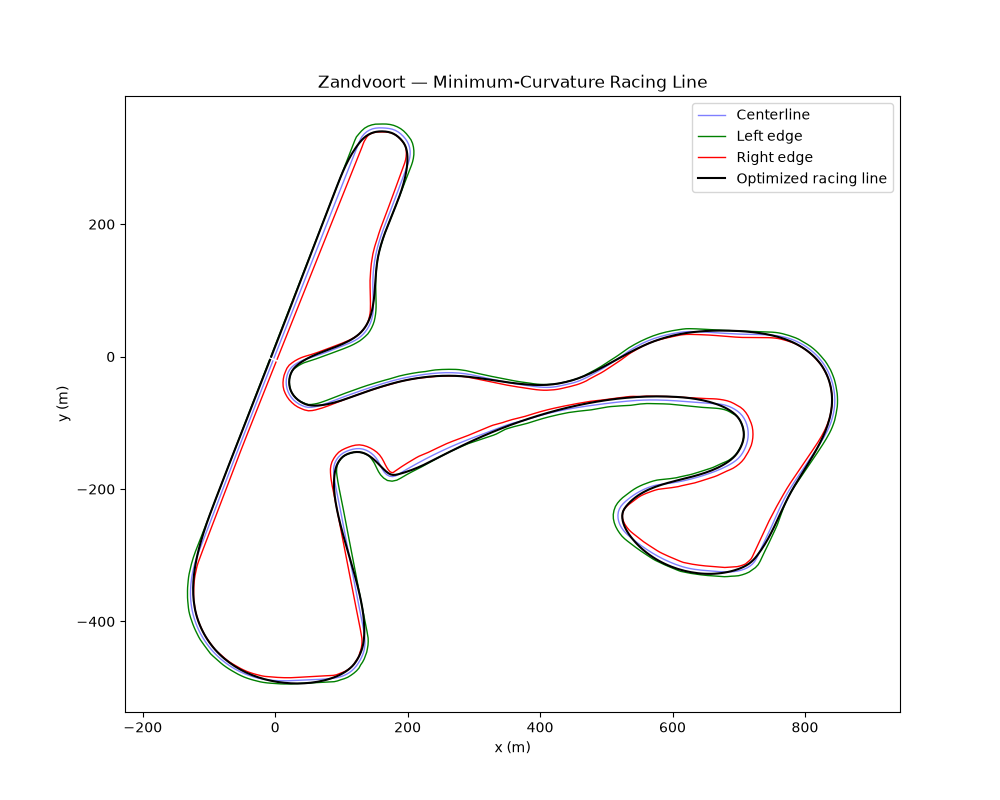
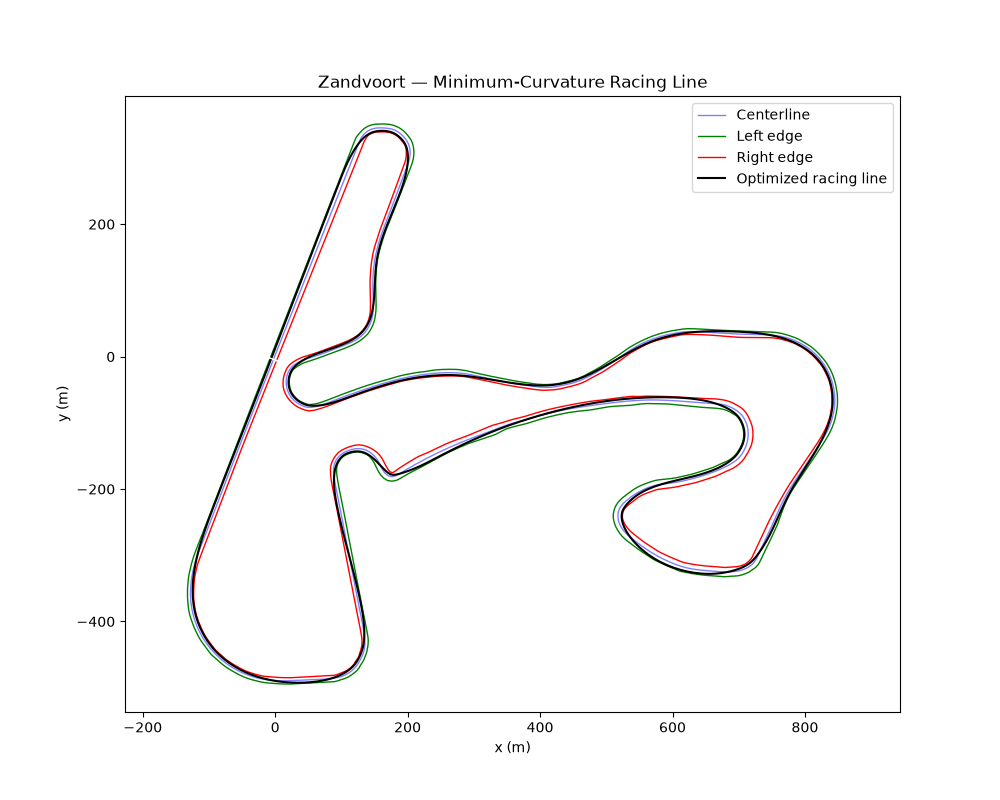
Add vehicle width constraint, speed profile, lap time metrics, and 5-track benchmark

diff --git a/load_track.py b/load_track.py
@@ -65,12 +65,23 @@ def build_second_diff_matrix(n_points):
     L[-1, 0] = 1
     return L.tocsr()
 
-
-def optimize_racing_line(x, y, w_left, w_right, n_x, n_y, L):
-    """Solve the minimum-curvature offset (alpha) optimization problem."""
+def optimize_racing_line(x, y, w_left, w_right, n_x, n_y, L, w_veh=2.0):
     n_points = len(x)
     c_x = L @ x
     c_y = L @ y
+
+    # Shrink usable width by half the vehicle width on each side
+    w_left_adj = w_left - w_veh / 2
+    w_right_adj = w_right - w_veh / 2
+    if np.any(w_left_adj < 0) or np.any(w_right_adj < 0):
+        n_bad_left = np.sum(w_left_adj < 0)
+        n_bad_right = np.sum(w_right_adj < 0)
+        raise ValueError(
+            f"Vehicle width ({w_veh}m) doesn't fit at some track points! "
+            f"{n_bad_left} points too narrow on the left, "
+            f"{n_bad_right} points too narrow on the right. "
+            f"Reduce w_veh or check the track data."
+        )
 
     def cost_and_grad(alpha):
         Dx = c_x + L @ (alpha * n_x)
@@ -79,7 +90,7 @@ def optimize_racing_line(x, y, w_left, w_right, n_x, n_y, L):
         grad = 2 * n_x * (L @ Dx) + 2 * n_y * (L @ Dy)
         return cost, grad
 
-    bounds = list(zip(-w_right, w_left))
+    bounds = list(zip(-w_right_adj, w_left_adj))
     alpha_init = np.zeros(n_points)
 
     result = minimize(
@@ -87,7 +98,48 @@ def optimize_racing_line(x, y, w_left, w_right, n_x, n_y, L):
         method="L-BFGS-B", jac=True, bounds=bounds
     )
     return result
+def compute_speed_profile(x, y, a_y_max=15.0):
+    """
+    Compute the maximum cornering speed at each point along a path,
+    based purely on lateral grip limits (v_max = sqrt(a_y_max * R)).
+    Does NOT account for engine/braking limits - straights will show
+    unrealistically high values, since this only captures the
+    cornering constraint.
+    """
+    curvature = compute_curvature(x, y)
 
+    # Avoid division by zero on perfectly straight sections
+    # (curvature exactly 0 would make R infinite).
+    # np.abs() since curvature sign indicates turn direction (left/right),
+    # but radius itself is always a positive distance.
+    curvature_safe = np.maximum(np.abs(curvature), 1e-6)
+
+    R = 1 / curvature_safe
+    v_max = np.sqrt(a_y_max * R)
+
+    return v_max, R
+def apply_acceleration_limits(v_max, x, y, a_max=10.0, a_brake=25.0, v_top_speed=100.0, n_laps=3):
+    n = len(v_max)
+    v_profile = np.minimum(v_max, v_top_speed).copy()
+
+    x_next, y_next = np.roll(x, -1), np.roll(y, -1)
+    ds = np.sqrt((x_next - x)**2 + (y_next - y)**2)
+
+    # Repeat the forward-backward sweep several times so the seam
+    # between the last point and point 0 (the closed loop) converges
+    # to a consistent value, instead of being treated as a hard start.
+    for _ in range(n_laps):
+        for i in range(n):
+            i_prev = (i - 1) % n  # wraps around: point 0's previous is point n-1
+            v_reachable = np.sqrt(v_profile[i_prev]**2 + 2 * a_max * ds[i_prev])
+            v_profile[i] = min(v_profile[i], v_reachable)
+
+        for i in range(n - 1, -1, -1):
+            i_next = (i + 1) % n  # wraps around: point n-1's next is point 0
+            v_reachable = np.sqrt(v_profile[i_next]**2 + 2 * a_brake * ds[i])
+            v_profile[i] = min(v_profile[i], v_reachable)
+
+    return v_profile
 
 def plot_result(x, y, left, right, racing_x, racing_y, track_name, save_path):
     """Plot centerline, edges, and optimized racing line."""
@@ -103,9 +155,29 @@ def plot_result(x, y, left, right, racing_x, racing_y, track_name, save_path):
     plt.legend()
     plt.savefig(save_path)
     plt.show()
+def compute_metrics(x, y, v_profile):
+    """
+    Compute summary metrics for a path + its speed profile:
+    total length, lap time, average speed, min/max speed.
+    """
+    x_next, y_next = np.roll(x, -1), np.roll(y, -1)
+    ds = np.sqrt((x_next - x)**2 + (y_next - y)**2)
+
+    length = np.sum(ds)
+    lap_time = np.sum(ds / v_profile)
+    avg_speed = length / lap_time
+
+    return {
+        "length_m": length,
+        "lap_time_s": lap_time,
+        "avg_speed_kmh": avg_speed * 3.6,
+        "max_speed_kmh": v_profile.max() * 3.6,
+        "min_speed_kmh": v_profile.min() * 3.6,
+    }
 
 
 import sys
+
 
 def main():
     track_name = sys.argv[1] if len(sys.argv) > 1 else "Monza"
@@ -138,6 +210,33 @@ def main():
     plot_result(x, y, left, right, racing_x, racing_y, track_name,
                 f"{track_name.lower()}_racing_line.png")
 
+    v_max, R = compute_speed_profile(racing_x, racing_y)
+    v_profile = apply_acceleration_limits(v_max, racing_x, racing_y)
+    metrics = compute_metrics(racing_x, racing_y, v_profile)
+    print("\n--- Metrics (optimized racing line) ---")
+    for key, value in metrics.items():
+        print(f"{key}: {value:.2f}")
+        # --- Compare against the centerline (unoptimized baseline) ---
+    v_max_centerline, _ = compute_speed_profile(x, y)
+    v_profile_centerline = apply_acceleration_limits(v_max_centerline, x, y)
+    metrics_centerline = compute_metrics(x, y, v_profile_centerline)
+
+    print("\n--- Metrics (centerline, unoptimized) ---")
+    for key, value in metrics_centerline.items():
+        print(f"{key}: {value:.2f}")
+
+    improvement = (metrics_centerline["lap_time_s"] - metrics["lap_time_s"]) / metrics_centerline["lap_time_s"] * 100
+    print(f"\nLap time improvement from optimization: {improvement:.2f}%")
+
+    plt.figure(figsize=(12, 5))
+    plt.plot(v_max * 3.6, label="Cornering limit only", alpha=0.5)
+    plt.plot(v_profile * 3.6, label="With acceleration/braking limits", linewidth=1.5)
+    plt.title(f"{track_name} — Speed Profile")
+    plt.xlabel("Point index (along track)")
+    plt.ylabel("Speed (km/h)")
+    plt.legend()
+    plt.savefig(f"{track_name.lower()}_speed_profile.png")
+    plt.show()
 
 if __name__ == "__main__":
     main()

diff --git a/README.md b/README.md
@@ -1,34 +1,67 @@
 # Racing Line Optimizer
 
 A minimum-curvature trajectory optimizer that computes an optimal racing
-line through a racetrack, given only the track's centerline geometry and
-width — built as a personal project to explore optimization methods
-applied to autonomous/motorsport systems.
+line through a racetrack and estimates lap time, given only the track's
+centerline geometry and width — built as a personal project to explore
+optimization methods applied to autonomous/motorsport systems.
 
 ## What it does
 
 Given a track's centerline coordinates and left/right width at each point
 (from real F1/DTM circuit data), the optimizer finds a path that minimizes
-overall curvature while staying within track boundaries — approximating
-a fast racing line: cutting corners toward the inside, using the full
-width of the track rather than following the centerline.
+overall curvature while staying within track boundaries (accounting for
+vehicle width) — approximating a fast racing line: cutting corners toward
+the inside, using the full width of the track rather than following the
+centerline.
+
+A simplified physics model then estimates a feasible speed profile along
+that line (cornering-grip limit, acceleration/braking limits, top-speed
+cap), from which lap time, average speed, and other metrics are computed.
 
 ## Method
 
 - Each point on the racing line is expressed as an offset (`alpha`) from
   the centerline, along the local perpendicular direction — reducing the
   problem to one variable per track point, bounded by the available track
-  width on each side.
+  width on each side (minus vehicle width, so the whole car stays on track).
 - Curvature is approximated via discrete "bending energy" (squared second
   differences of position), expressed as a quadratic function of `alpha`.
 - The resulting bounded quadratic optimization problem is solved using
   `scipy.optimize.minimize` (L-BFGS-B), with an analytically-derived
   gradient for fast, exact convergence.
+- Speed is estimated per point from lateral grip (`v = sqrt(a_y_max * R)`),
+  then refined with a forward-backward acceleration/braking sweep (run over
+  several loop iterations, since the track is a closed loop) and a top-speed
+  cap.
+- Lap time is estimated as `T = sum(ds_i / v_i)` over the whole lap.
 
 This approach is inspired by the method described in Heilmeier et al.,
 *"Minimum Curvature Trajectory Planning and Control for an Autonomous
 Race Car"* (2020), though the implementation here (offset formulation,
-cost derivation, and solver setup) is my own.
+cost derivation, and solver setup) is my own. TUM's own reference
+implementation (`TUMFTM/trajectory_planning_helpers`) additionally uses
+cubic splines for geometry, iterative refinement (IQP), and a dedicated
+QP solver — differences worth noting as possible future refinements here.
+
+## Benchmark results
+
+Optimized racing line vs. raw centerline, across 5 structurally different
+real F1 tracks (simplified physics model: no aerodynamic downforce,
+constant lateral grip limit):
+
+| Track | Length (m) | Lap Time (s) | Avg Speed (km/h) | Improvement |
+|---|---|---|---|---|
+| Monza | 5757.91 | 91.55 | 226.41 | 7.14% |
+| Nürburgring | 5056.57 | 102.71 | 177.23 | 10.24% |
+| Budapest | 4315.34 | 94.52 | 164.36 | 8.52% |
+| Silverstone | 5810.38 | 109.69 | 190.69 | 13.13% |
+| Spa | 6948.80 | 123.90 | 201.90 | 11.29% |
+
+**Average improvement: ~10%.** Notably, tracks with more sustained,
+technical corner sequences (Silverstone, Spa) benefit more from the
+optimization than tracks dominated by straights (Monza) — consistent
+with the fact that minimum-curvature optimization has more room to help
+wherever there's more curvature to smooth out.
 
 ## Data
 
@@ -44,18 +77,20 @@ Track geometry is sourced from TUM's open-source
 ## Usage
 
 ```bash
-python load_track.py
+python load_track.py [TrackName]
 ```
 
-Computes and plots the minimum-curvature racing line for Monza (the
-current default track), saving the result as a PNG.
+Defaults to Monza if no track is given. Computes the minimum-curvature
+racing line, estimates its speed profile and lap time, compares it
+against the centerline baseline, and saves plots as PNGs.
 
 ## Status
 
-Currently a working single-track proof of concept. Planned next steps:
-validating on additional tracks, and exploring a machine-learning
-surrogate model trained to approximate the optimizer's output directly
-from track geometry.
+Working, validated proof of concept across multiple tracks. Known
+simplifications: no aerodynamic downforce, constant tire grip assumption,
+single-pass (non-iterative) curvature optimization. Planned next steps:
+exploring a machine-learning surrogate model trained to approximate the
+optimizer's output directly from track geometry.
 
 ## Author
 
